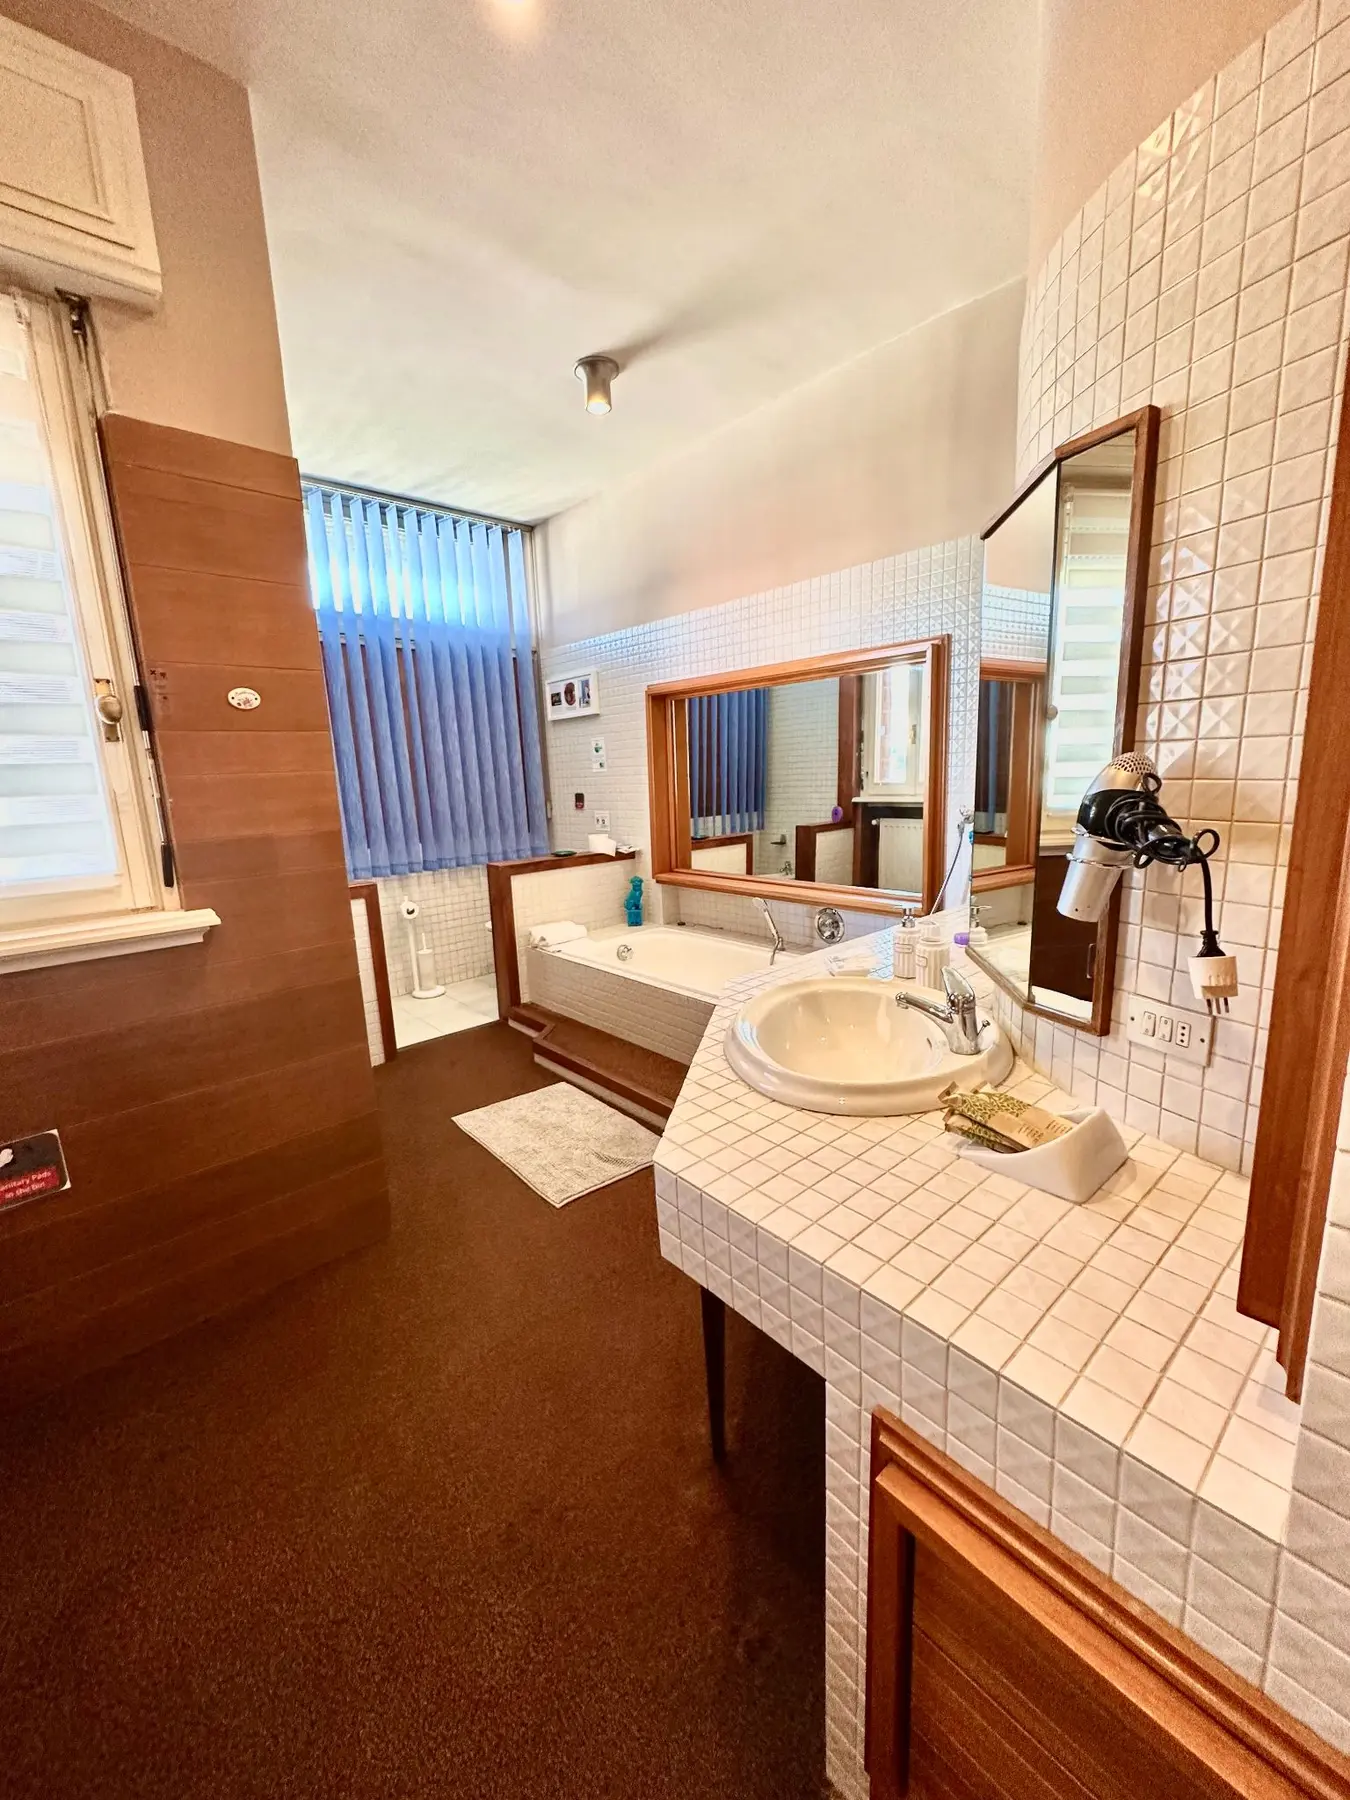
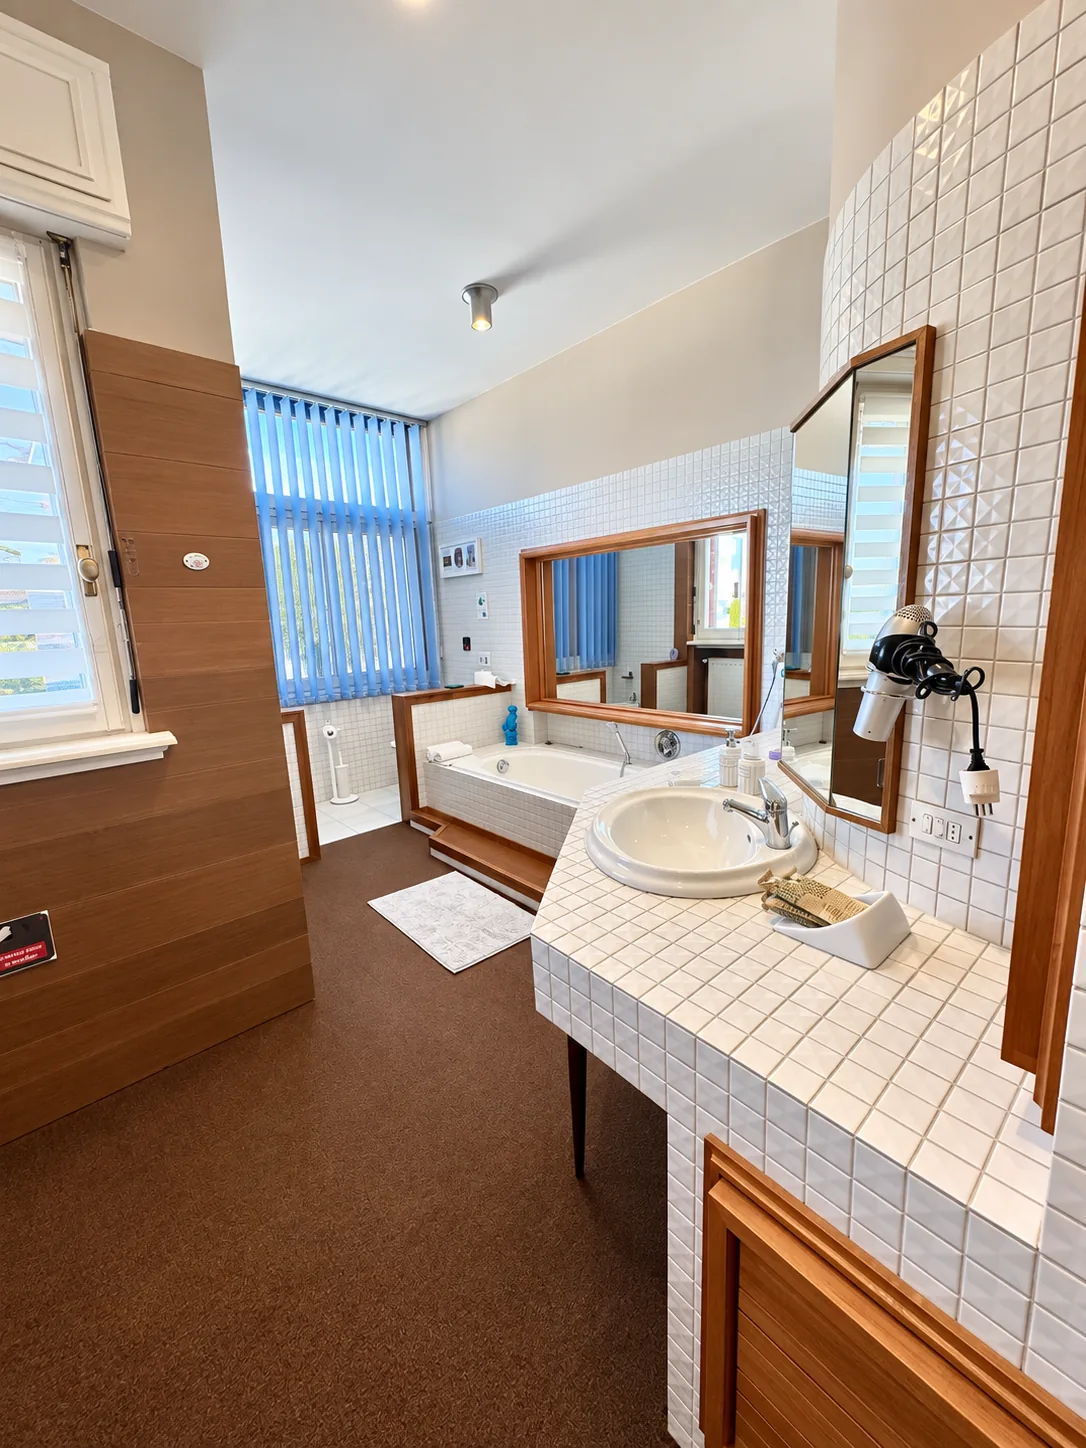
Bagno Padronale: sostituite con le 3 foto reali fornite da Giorgio (rimossa la 4a foto placeholder)

diff --git a/elegance/en/rooms/index.html b/elegance/en/rooms/index.html
@@ -161,10 +161,9 @@
 <figure class="cv-photo" data-coverflow-group="B01" data-group-label="Bathroom 01" data-group-name="Bagno Blu"><img src="/villa-brando-v2/assets/official/bathrooms/bathroom-b01-01.webp" alt="Bagno Blu with double sink and lit mirror" loading="lazy"><figcaption class="cv-photo-caption">Bagno Blu</figcaption></figure>
 <figure class="cv-photo" data-coverflow-group="B01" data-group-label="Bathroom 01" data-group-name="Bagno Blu"><img src="/villa-brando-v2/assets/official/bathrooms/bathroom-b01-02.webp" alt="Bagno Blu hydromassage shower" loading="lazy"><figcaption class="cv-photo-caption">Bagno Blu</figcaption></figure>
 <figure class="cv-photo" data-coverflow-group="B01" data-group-label="Bathroom 01" data-group-name="Bagno Blu"><img src="/villa-brando-v2/assets/official/bathrooms/bathroom-b01-03.webp" alt="Bagno Blu sink with bathroom amenities" loading="lazy"><figcaption class="cv-photo-caption">Bagno Blu</figcaption></figure>
-<figure class="cv-photo" data-coverflow-group="B02" data-group-label="Bathroom 02" data-group-name="Bagno Padronale"><img src="/villa-brando-v2/assets/official/bathrooms/bathroom-b02-01.webp" alt="Bathroom 02 with bathtub" loading="lazy"><figcaption class="cv-photo-caption">Bagno Padronale</figcaption></figure>
-<figure class="cv-photo" data-coverflow-group="B02" data-group-label="Bathroom 02" data-group-name="Bagno Padronale"><img src="/villa-brando-v2/assets/official/bathrooms/bathroom-b02-02.webp" alt="Amenities in Bathroom 02" loading="lazy"><figcaption class="cv-photo-caption">Bagno Padronale</figcaption></figure>
-<figure class="cv-photo" data-coverflow-group="B02" data-group-label="Bathroom 02" data-group-name="Bagno Padronale"><img src="/villa-brando-v2/assets/official/bathrooms/bathroom-b02-03.webp" alt="Bathtub and mirror in Bathroom 02" loading="lazy"><figcaption class="cv-photo-caption">Bagno Padronale</figcaption></figure>
-<figure class="cv-photo" data-coverflow-group="B02" data-group-label="Bathroom 02" data-group-name="Bagno Padronale"><img src="/villa-brando-v2/assets/official/bathrooms/bathroom-b02-04.webp" alt="Courtesy detail in Bathroom 02" loading="lazy"><figcaption class="cv-photo-caption">Bagno Padronale</figcaption></figure>
+<figure class="cv-photo" data-coverflow-group="B02" data-group-label="Bathroom 02" data-group-name="Bagno Padronale"><img src="/villa-brando-v2/assets/official/bathrooms/bathroom-b02-01.webp" alt="Bagno Padronale with bathtub and wooden mirror" loading="lazy"><figcaption class="cv-photo-caption">Bagno Padronale</figcaption></figure>
+<figure class="cv-photo" data-coverflow-group="B02" data-group-label="Bathroom 02" data-group-name="Bagno Padronale"><img src="/villa-brando-v2/assets/official/bathrooms/bathroom-b02-02.webp" alt="Bagno Padronale bathtub with handheld shower" loading="lazy"><figcaption class="cv-photo-caption">Bagno Padronale</figcaption></figure>
+<figure class="cv-photo" data-coverflow-group="B02" data-group-label="Bathroom 02" data-group-name="Bagno Padronale"><img src="/villa-brando-v2/assets/official/bathrooms/bathroom-b02-03.webp" alt="Bagno Padronale sink with grab bars" loading="lazy"><figcaption class="cv-photo-caption">Bagno Padronale</figcaption></figure>
 <figure class="cv-photo" data-coverflow-group="B03" data-group-label="Bathroom 03" data-group-name="Bagno Azzurro"><img src="/villa-brando-v2/assets/official/bathrooms/bathroom-b03-01.webp" alt="Bathroom 03 with turquoise finishes" loading="lazy"><figcaption class="cv-photo-caption">Bagno Azzurro</figcaption></figure>
 <figure class="cv-photo" data-coverflow-group="B03" data-group-label="Bathroom 03" data-group-name="Bagno Azzurro"><img src="/villa-brando-v2/assets/official/bathrooms/bathroom-b03-02.webp" alt="Full view of Bathroom 03" loading="lazy"><figcaption class="cv-photo-caption">Bagno Azzurro</figcaption></figure>
 <figure class="cv-photo" data-coverflow-group="B04" data-group-label="Bathroom 04" data-group-name="Bagno Suite"><img src="/villa-brando-v2/assets/official/bathrooms/bathroom-b04-01.webp" alt="Bathroom 04 with shower" loading="lazy"><figcaption class="cv-photo-caption">Bagno Suite</figcaption></figure>

diff --git a/elegance/it/camere/index.html b/elegance/it/camere/index.html
@@ -173,10 +173,9 @@
 <figure class="cv-photo" data-coverflow-group="B01" data-group-label="Bagno 01" data-group-name="Bagno Blu"><img src="/villa-brando-v2/assets/official/bathrooms/bathroom-b01-01.webp" alt="Bagno Blu con doppio lavabo e specchio luminoso" loading="lazy"><figcaption class="cv-photo-caption">Bagno Blu</figcaption></figure>
 <figure class="cv-photo" data-coverflow-group="B01" data-group-label="Bagno 01" data-group-name="Bagno Blu"><img src="/villa-brando-v2/assets/official/bathrooms/bathroom-b01-02.webp" alt="Doccia idromassaggio del Bagno Blu" loading="lazy"><figcaption class="cv-photo-caption">Bagno Blu</figcaption></figure>
 <figure class="cv-photo" data-coverflow-group="B01" data-group-label="Bagno 01" data-group-name="Bagno Blu"><img src="/villa-brando-v2/assets/official/bathrooms/bathroom-b01-03.webp" alt="Lavabo del Bagno Blu con cortesie da bagno" loading="lazy"><figcaption class="cv-photo-caption">Bagno Blu</figcaption></figure>
-<figure class="cv-photo" data-coverflow-group="B02" data-group-label="Bagno 02" data-group-name="Bagno Padronale"><img src="/villa-brando-v2/assets/official/bathrooms/bathroom-b02-01.webp" alt="Bagno 02 con vasca" loading="lazy"><figcaption class="cv-photo-caption">Bagno Padronale</figcaption></figure>
-<figure class="cv-photo" data-coverflow-group="B02" data-group-label="Bagno 02" data-group-name="Bagno Padronale"><img src="/villa-brando-v2/assets/official/bathrooms/bathroom-b02-02.webp" alt="Dotazioni del Bagno 02" loading="lazy"><figcaption class="cv-photo-caption">Bagno Padronale</figcaption></figure>
-<figure class="cv-photo" data-coverflow-group="B02" data-group-label="Bagno 02" data-group-name="Bagno Padronale"><img src="/villa-brando-v2/assets/official/bathrooms/bathroom-b02-03.webp" alt="Vasca e specchio del Bagno 02" loading="lazy"><figcaption class="cv-photo-caption">Bagno Padronale</figcaption></figure>
-<figure class="cv-photo" data-coverflow-group="B02" data-group-label="Bagno 02" data-group-name="Bagno Padronale"><img src="/villa-brando-v2/assets/official/bathrooms/bathroom-b02-04.webp" alt="Dettaglio cortesia del Bagno 02" loading="lazy"><figcaption class="cv-photo-caption">Bagno Padronale</figcaption></figure>
+<figure class="cv-photo" data-coverflow-group="B02" data-group-label="Bagno 02" data-group-name="Bagno Padronale"><img src="/villa-brando-v2/assets/official/bathrooms/bathroom-b02-01.webp" alt="Bagno Padronale con vasca e specchio in legno" loading="lazy"><figcaption class="cv-photo-caption">Bagno Padronale</figcaption></figure>
+<figure class="cv-photo" data-coverflow-group="B02" data-group-label="Bagno 02" data-group-name="Bagno Padronale"><img src="/villa-brando-v2/assets/official/bathrooms/bathroom-b02-02.webp" alt="Vasca del Bagno Padronale con doccetta" loading="lazy"><figcaption class="cv-photo-caption">Bagno Padronale</figcaption></figure>
+<figure class="cv-photo" data-coverflow-group="B02" data-group-label="Bagno 02" data-group-name="Bagno Padronale"><img src="/villa-brando-v2/assets/official/bathrooms/bathroom-b02-03.webp" alt="Lavabo del Bagno Padronale con doppio corrimano" loading="lazy"><figcaption class="cv-photo-caption">Bagno Padronale</figcaption></figure>
 <figure class="cv-photo" data-coverflow-group="B03" data-group-label="Bagno 03" data-group-name="Bagno Azzurro"><img src="/villa-brando-v2/assets/official/bathrooms/bathroom-b03-01.webp" alt="Bagno 03 con rivestimenti turchesi" loading="lazy"><figcaption class="cv-photo-caption">Bagno Azzurro</figcaption></figure>
 <figure class="cv-photo" data-coverflow-group="B03" data-group-label="Bagno 03" data-group-name="Bagno Azzurro"><img src="/villa-brando-v2/assets/official/bathrooms/bathroom-b03-02.webp" alt="Vista completa del Bagno 03" loading="lazy"><figcaption class="cv-photo-caption">Bagno Azzurro</figcaption></figure>
 <figure class="cv-photo" data-coverflow-group="B04" data-group-label="Bagno 04" data-group-name="Bagno Suite"><img src="/villa-brando-v2/assets/official/bathrooms/bathroom-b04-01.webp" alt="Bagno 04 con doccia" loading="lazy"><figcaption class="cv-photo-caption">Bagno Suite</figcaption></figure>
